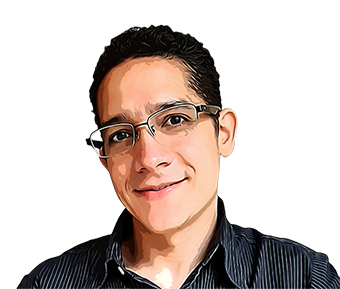
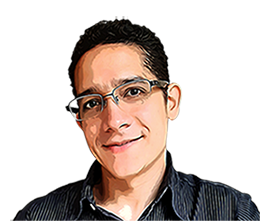
Mi tercer commit, funcionalidad de los botones

diff --git a/index.html b/index.html
@@ -34,7 +34,7 @@
 <main>
     <section class="section1">
         <article class="circle">
-            <img class="circular" src="img/hombre-vista-lateral-trabajando-post-its.jpg" alt="Foto Interior Scrum">
+            <img class="circular" src="img/hombre-trabajando-post-its.jpg" alt="Foto Interior Scrum">
         </article>
         <article id="objetivos">
             <br>
@@ -52,8 +52,8 @@
                 Esto es por el <b>diseño de experiencia de usuario</b> que rodea a cierto producto o servicio que abarca los sentimientos y emociones que experimentamos cuando interactuamos con dichos productos o servicios. Vivimos rodeados de experiencias de usuario tanto en nuestra vida diaria, como en nuestra vida digital.
             </p>     
         </article>
-        <article id=descarga>
-            <a class="navlink1" href="file:///C:/Users/ramon/Documents/CLIENTES_2023/RAMON_P/Data%20Compu%20Ana%20Sof%C3%ADa/CodigoPaLante/Clase%206/proyecto-1-cod-latam-ramonpuentes/img/Product%20Designer_RAMON%20PUENTES_CV_es.pdf" download="Product Designer_RAMON PUENTES_CV_es.pdf">Descargar mi CV</a>   
+        <article class=descarga>
+            <a class="linkDes" href="file:///C:/Users/ramon/Documents/CLIENTES_2023/RAMON_P/Data%20Compu%20Ana%20Sof%C3%ADa/CodigoPaLante/Clase%206/proyect1-cod-latam-ramonpuentes/img/Product%20Designer_RAMON%20PUENTES_CV_es.pdf" target="_blank">Descargar mi CV</a>   
         </article>
     </section>
     <section class="section2">
@@ -67,18 +67,17 @@
             </p>
         </article>
         <article class="iconsButtons">
-            <ul id="iconos">
-                <li><img src="img/mail.png" alt=""></li>
-                <li><img src="img/github.png" alt=""></li>
-                <li><img src="img/linkedin.png" alt=""><a href="https://www.linkedin.com/in/ramonpuentes" target="_blank"> </a></li>
+            <ul class="iconos">
+                <li class="mail"><a href="mailto:ramonpuentes@gmail.com" class="mail-button" target="_blank"><img src="img/mail.png" alt="icocno-mail"></a></li>
+                <li class="github"><a href="https://github.com/rmochuelo/proyect1-cod-latam-ramonpuentes.git
+                    " class="github-button" target="_blank"><img src="img/github.png" alt="icocno-github"></a></li>
+                <li li class="linkedin"><a href="https://www.linkedin.com/in/ramonpuentes" target="_blank"><img src="img/linkedin.png" alt="icocno-linkedin"></a></li>
             </ul>
         </article>
 
     </section>
-    <section>
-        
-    </section>
-  </main>
+</main>
+
   <footer id="footer">
     <h4>
         Campus Virtual Eidos Global - Código LATAM <a href="https://www.eidosglobal.org/" class="navlink3" target="_blank"> campus.eidosglobal.org</a>

diff --git a/css/styles.css b/css/styles.css
@@ -29,14 +29,14 @@ body {
     justify-content:space-between;
 }
 .fotoRamon {
-    margin-bottom: -9.5%;
-    width: 65%;
-    height: -15%;
+    margin-bottom: -12.2%;
+    width: 70%;
+    height: -18%;
 }
 
 .name {
     color: #ff6240;
-    margin-left: 70%;
+    margin-left: 75%;
 }
 
 .botones {
@@ -51,6 +51,14 @@ body {
     margin-right: 12%;
 }
 
+.navlink1, .navlink2, .linkDes {
+    color:#999999;
+    padding: 0.4rem;
+    border-radius: 0.5rem; border-color: #999
+    font-family 'Gill Sans', 'Gill Sans MT'; font-size: medium;
+    box-shadow: 0em 0.3em 0.5em 0em rgba(150, 150, 150, 5);
+}
+
 .navlink3,.navlink4 {
     color:#ffffff;
     padding: 0.4rem;
@@ -58,13 +66,15 @@ body {
     margin-bottom:unset;
     border-radius: 0.5rem;
     font-family: 'Gill Sans', 'Gill Sans MT';font-size: medium;
+    box-shadow: 0em 0.3em 0.5em 0em rgba(150, 150, 150, 5);
     background-color:#ec7e62;
+    margin-left: 1%;
     }
 
 hr {
     border-color: #ff6240;
     margin-bottom: -1.7%;
-    box-shadow: 0em 0.7em 1.2em 0em rgba(0, 0, 0, 2);
+    box-shadow: 0em 0.7em 1.2em 0em rgba(0, 0, 0, 8);
 }
 
 /* Para quitar los puntos a los items de listas */
@@ -76,11 +86,6 @@ ul {
 a {
     text-decoration: none;
     color: inherit;
-    color:#999999;
-    padding: 0.4rem;
-    border-radius: 0.5rem; border-color: #999
-    font-family 'Gill Sans', 'Gill Sans MT'; font-size: medium;
-    box-shadow: 0em 0.3em 0.5em 0em rgba(150, 150, 150, 5);
 }
 
 main {
@@ -96,10 +101,8 @@ main {
 
 .circular {
     margin-top: 10%;
-    width: 30em;
-    height: 30em;
     overflow: hidden;
-    border-radius: 80%;
+    border-radius: 50%;
     margin-bottom: 2%;
 }
 
@@ -109,11 +112,10 @@ main {
     text-align: center;
 }
 
-#descarga {
+.descarga {
     display: flex;
     justify-content:center;
     margin-bottom: 30%;
-    margin-left: 10%;
     margin-top: 5%; 
 }
 
@@ -128,15 +130,28 @@ img {
     width: 100%;
 }
 
-#iconos {
-    display: flex;
-    justify-content: space-between;
-    background-color: aqua;
-    align-items:center;
-    width: 25%;
+.iconsButtons {
     margin-top: 10%;
-     
+    padding: 5%;  
 }
+
+.iconos {
+    display: flex;
+    justify-content:space-between;
+}
+
+
+.mail, .github, .linkedin {
+    width: 20%;
+    margin-bottom: 35%;
+    cursor: pointer;
+    transition: 0.3s;
+}
+
+.mail:hover, .github:hover, .linkedin:hover {
+    transform: scale(1.2);
+}
+
 
 #footer {
     background-color: #fcae96;
